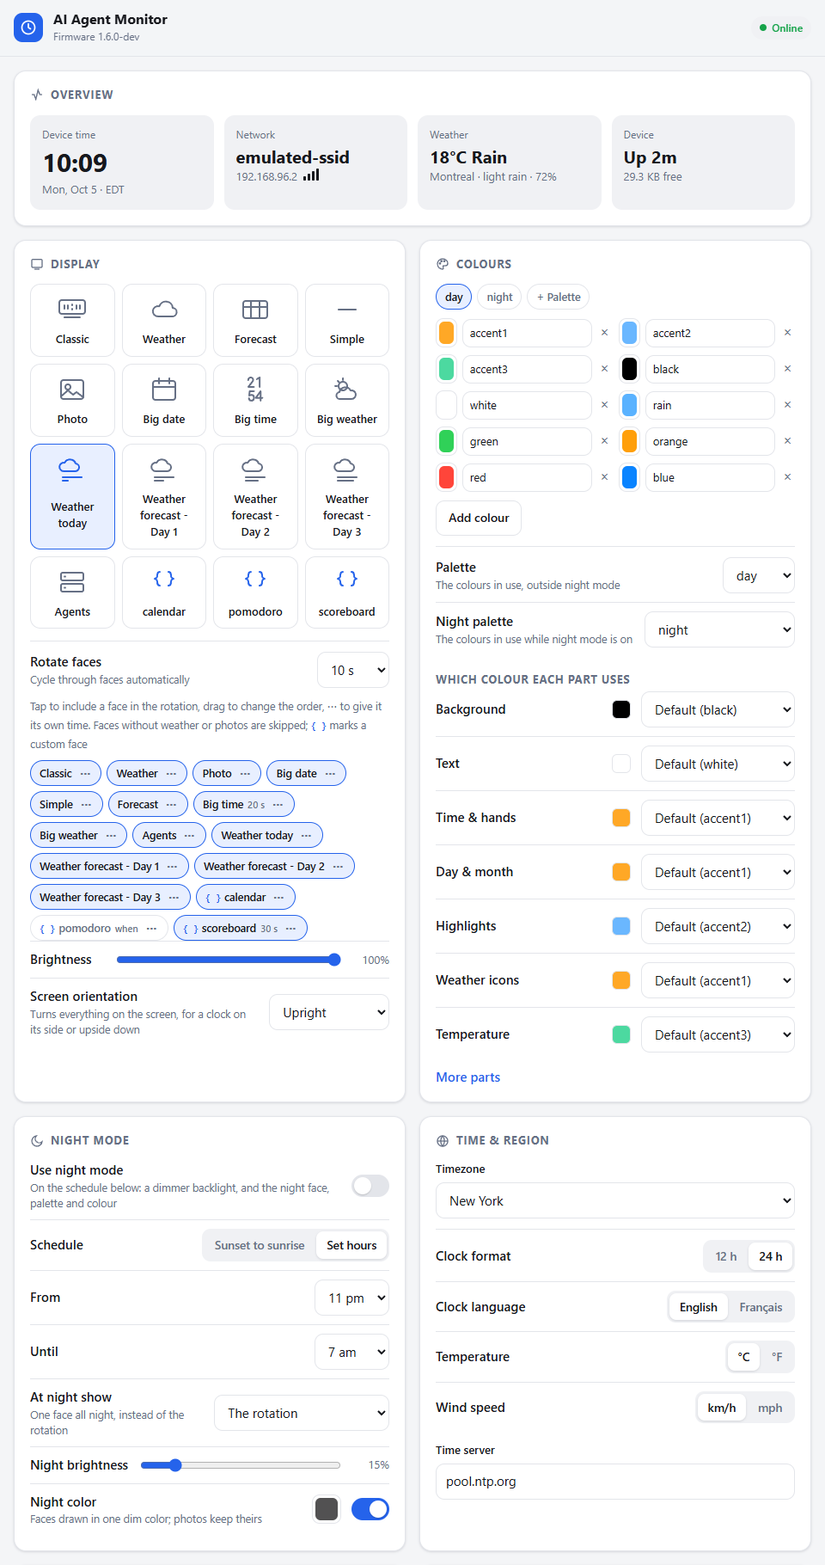
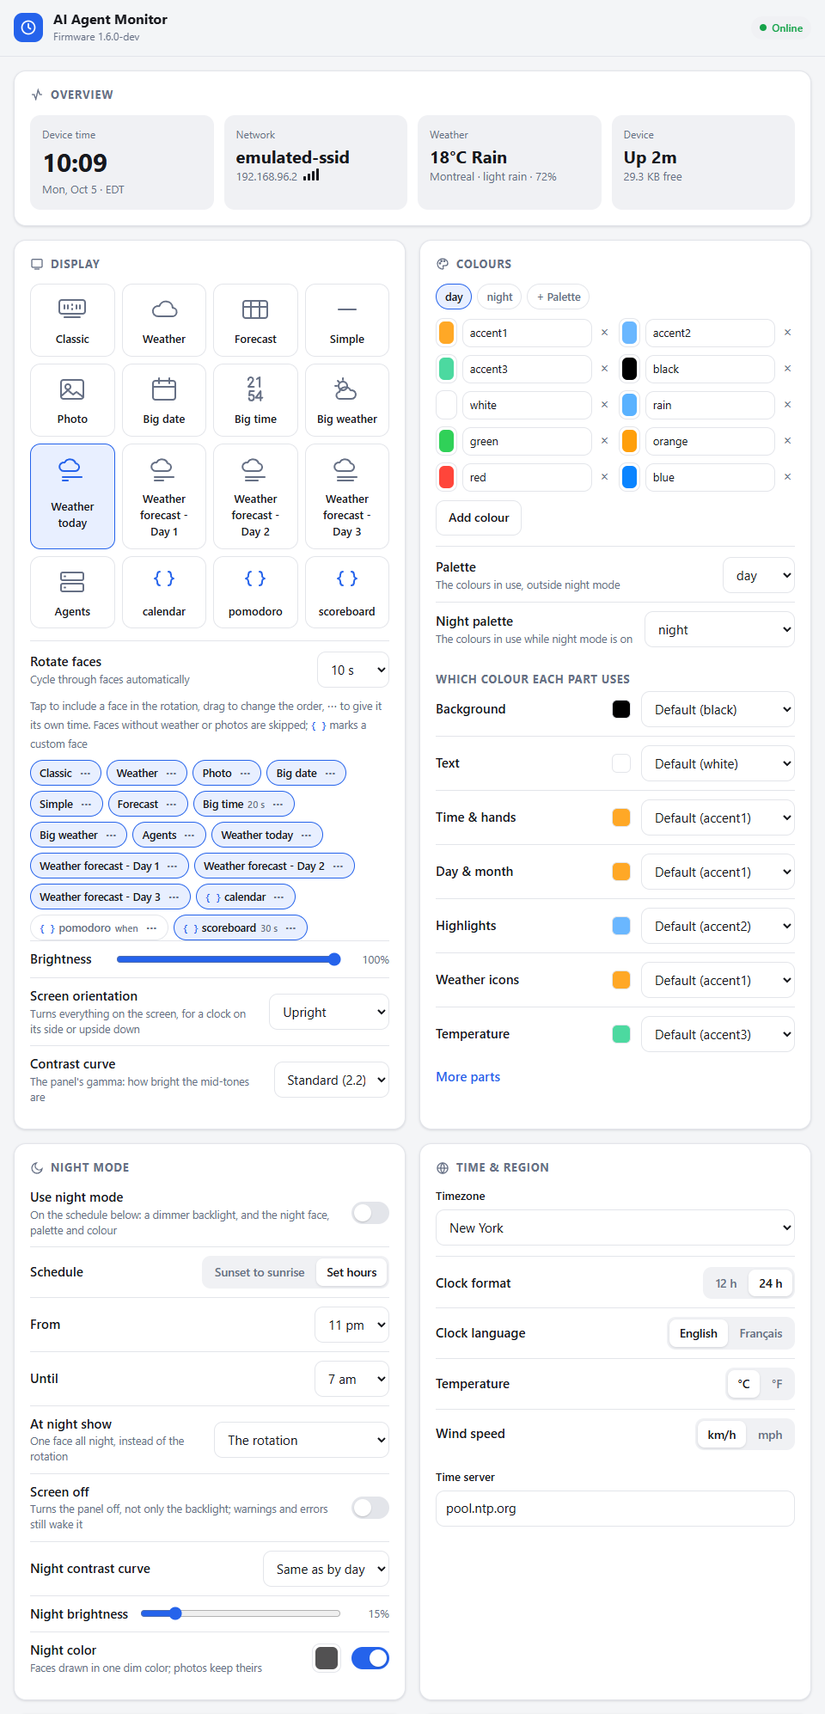
feat(display): colour inversion, contrast curves and screen off at night
- A custom face's `invert` inverts the panel's colours (INVON/INVOFF) with no
  redraw, for flashing faces.
- Gamma curve (2.2, 1.8, 2.5, 1.0) by day and at night (`gamma`, `nightgamma`),
  set with the controller's GAMSET.
- "Screen off" at night (`nightoff`) puts the panel to sleep; warnings and
  errors wake it.
- The emulator models all three; settings page, specs, skill, schema, README,
  screenshots and changelog updated.

diff --git a/web/index.html b/web/index.html
@@ -192,6 +192,9 @@ a{color:var(--accent)}
     <div class="row"><span class="lbl">Screen orientation<span class="hint">Turns everything on the screen, for a clock on its side or upside down</span></span>
       <select class="sm" id="orientation" data-key="orientation"><option value="0">Upright</option><option value="90">90° clockwise</option>
         <option value="180">Upside down</option><option value="270">90° counter-clockwise</option></select></div>
+    <div class="row"><span class="lbl">Contrast curve<span class="hint">The panel's gamma: how bright the mid-tones are</span></span>
+      <select class="sm" id="gamma" data-key="gamma"><option value="2.2">Standard (2.2)</option><option value="1.8">Lighter (1.8)</option>
+        <option value="2.5">Deeper (2.5)</option><option value="1.0">Flat (1.0)</option></select></div>
   </section>
 
   <section class="card settings">
@@ -221,6 +224,11 @@ a{color:var(--accent)}
     <div class="row hoursRow"><span class="lbl">Until</span><select class="sm hours" id="stoptime" data-key="stoptime"></select></div>
     <div class="row"><span class="lbl">At night show<span class="hint">One face all night, instead of the rotation</span></span>
       <select class="sm" id="nightface" data-key="nightface"></select></div>
+    <div class="row"><label for="nightoff">Screen off<span class="hint">Turns the panel off, not only the backlight; warnings and errors still wake it</span></label>
+      <label class="switch"><input type="checkbox" id="nightoff" data-key="nightoff"><span></span></label></div>
+    <div class="row"><span class="lbl">Night contrast curve</span>
+      <select class="sm" id="nightgamma" data-key="nightgamma"><option value="">Same as by day</option><option value="2.2">Standard (2.2)</option><option value="1.8">Lighter (1.8)</option>
+        <option value="2.5">Deeper (2.5)</option><option value="1.0">Flat (1.0)</option></select></div>
     <div class="row"><span class="lbl">Night brightness</span>
       <div class="range"><input type="range" min="0" max="100" id="nightbrightness" data-key="nightbrightness"><output></output></div></div>
     <div class="row"><label for="nighttint">Night color<span class="hint">Faces drawn in one dim color; photos keep theirs</span></label>
@@ -581,9 +589,9 @@ function delPalette(){if(palTab=='day'||!confirm('Delete the palette '+palTab+'?
 
 function fillConfig(c){
   cfg=c;pals=c.palettes||{day:{}};roles=c.roles||{};renderThemes();renderColors();
-  for(const k of ['themeInterval','brightness','orientation','nightbrightness','starttime','stoptime','ntp','city','photointerval']){const el=$(k);if(el&&c[k]!==undefined){el.value=c[k];el.show&&el.show()}}
+  for(const k of ['themeInterval','brightness','orientation','gamma','nightgamma','nightbrightness','starttime','stoptime','ntp','city','photointerval']){const el=$(k);if(el&&c[k]!==undefined){el.value=c[k];el.show&&el.show()}}
   if(![...$('themeInterval').options].some(o=>o.value==String(c.themeInterval))){const o=new Option(c.themeInterval+' s',c.themeInterval);$('themeInterval').add(o);$('themeInterval').value=c.themeInterval}
-  $('nightmode').checked=!!c.nightmode;$('nighttint').checked=c.nighttint!==false;$('photoclock').checked=c.photoclock!==false;
+  $('nightmode').checked=!!c.nightmode;$('nightoff').checked=!!c.nightoff;$('nighttint').checked=c.nighttint!==false;$('photoclock').checked=c.photoclock!==false;
   ['facesapi','hacompat','mqtt'].forEach(k=>$(k).checked=!!c[k]);
   ['mqtthost','mqttuser','mqttbase'].forEach(k=>$(k).value=c[k]||'');$('mqttport').value=c.mqttport||1883;
   $('nightcolor').value=hex565(c.nightcolor||0);

diff --git a/src/main.cpp b/src/main.cpp
@@ -234,6 +234,8 @@ bool isNight(const struct tm& t) {
 }
 
 // ---------------------------- Display ---------------------------------------
+void setGamma(int index);
+
 void displayBegin() {
   displayReady = true;
   pinMode(PIN_BACKLIGHT, OUTPUT);
@@ -243,8 +245,32 @@ void displayBegin() {
   // The controller turns the picture (MADCTL): stock boots rotation 0, offset (0,0);
   // TFT_eSPI adds the 80-row offset a 240x240 glass on 240x320 RAM needs at 180 and 270.
   clockDisplay().setRotation(cfg.orientation);
+  setGamma(cfg.gamma);
   clockDisplay().fillScreen(TFT_BLACK);
   setBacklight(cfg.brightness);
+}
+
+// The panel's gamma curve (GAMSET: one of four built-in curves).
+void setGamma(int index) {
+  static int now = -1;
+  if (!displayReady || index == now) return;
+  now = index;
+  clockDisplay().writecommand(0x26);
+  clockDisplay().writedata(1 << index);
+}
+
+// The panel itself off (DISPOFF, then sleep), not only the backlight; on again it
+// wakes (SLPOUT, DISPON) and the face is redrawn.
+bool panelOff = false;
+void setPanelOn(bool on) {
+  if (!displayReady || on == !panelOff) return;
+  panelOff = !on;
+  TFT_eSPI& d = clockDisplay();
+  if (!on) { d.writecommand(0x28); d.writecommand(0x10); return; }
+  d.writecommand(0x11);
+  delay(10);   // after SLPOUT, before the next command
+  d.writecommand(0x29);
+  faceInvalidate();
 }
 
 void centerText(const String& s, int y, uint8_t font, uint16_t color) {
@@ -512,6 +538,8 @@ String configJson() {
   doc["theme"] = cfg.theme; doc["celsius"] = cfg.celsius; doc["hour12"] = cfg.hour12; doc["lang"] = cfg.lang;
   doc["mile"] = cfg.mile;   doc["city"] = cfg.city;       doc["brightness"] = cfg.brightness;
   doc["orientation"] = cfg.orientation * 90;
+  doc["gamma"] = Config::GAMMAS[cfg.gamma]; doc["nightgamma"] = cfg.nightGamma < 0 ? "" : Config::GAMMAS[cfg.nightGamma];
+  doc["nightoff"] = cfg.nightOff;
   doc["location"] = cfg.geoFor == cfg.city ? cfg.geoName : "";
   doc["nightmode"] = cfg.nightMode; doc["starttime"] = cfg.startHour; doc["stoptime"] = cfg.stopHour;
   doc["nightbrightness"] = cfg.nightBrightness; doc["nightface"] = cfg.nightFace; doc["ntp"] = cfg.ntp;
@@ -632,6 +660,12 @@ String applySetting(const String& key, const String& val) {
   }
   else if (key == "themeInterval") cfg.themeInterval = constrain(val.toInt(), 0, 3600);
   else if (key == "brightness") { cfg.brightness = constrain(val.toInt(), 0, 100); setBacklight(cfg.brightness); }
+  else if (key == "gamma" || key == "nightgamma") {   // a curve: 2.2, 1.8, 2.5 or 1.0; "" at night: the day's
+    int g = Config::gammaIndex(val);
+    if (g < 0 && !(key == "nightgamma" && val.isEmpty())) return F("Gamma: 2.2, 1.8, 2.5 or 1.0");
+    (key == "gamma" ? cfg.gamma : cfg.nightGamma) = g;
+  }
+  else if (key == "nightoff")   cfg.nightOff = (val == "1" || val == "true");
   else if (key == "orientation") {   // degrees, clockwise
     int deg = val.toInt();
     if (deg % 90) return F("Orientation: 0, 90, 180 or 270");
@@ -1388,7 +1422,10 @@ void loop() {
       brightnessDirty = false;
       lastBrightMin = t.tm_min;
       nightNow = isNight(t);
-      setBacklight(backlightOff ? 0 : boosted ? 100 : nightNow ? cfg.nightBrightness : cfg.brightness);
+      bool off = nightNow && cfg.nightOff && !boosted;   // an urgent message wakes the panel
+      setPanelOn(!off);
+      setGamma(nightNow && cfg.nightGamma >= 0 ? cfg.nightGamma : cfg.gamma);
+      setBacklight(backlightOff || off ? 0 : boosted ? 100 : nightNow ? cfg.nightBrightness : cfg.brightness);
       // Night colours too; an urgent message keeps its own.
       uint16_t tint = nightNow && !boosted && cfg.nightTint ? std::max<uint16_t>(cfg.nightColor, 1) : 0;
       if (tint != nightPanel().tint) { nightPanel().tint = tint; faceInvalidate(); }
@@ -1402,7 +1439,7 @@ void loop() {
       shown = entryFace(cfg.nightFace);
       if (shown == FACE_CUSTOM) custom = cfg.nightFace.c_str();
     }
-    if (!revealUntil && (int32_t)(millis() - faceHoldUntil) >= 0) {
+    if (!revealUntil && !panelOff && (int32_t)(millis() - faceHoldUntil) >= 0) {
       uint32_t start = micros();
       faceDraw(shown, t, timeValid, custom);
       uint32_t ms = (micros() - start) / 1000;

diff --git a/emulator/panel.cpp b/emulator/panel.cpp
@@ -4,7 +4,9 @@
 // Panel: the bytes TFT_eSPI sends are decoded as the controller would: CASET/RASET set
 // the window, RAMWR streams RGB565 pixels into it (big-endian), INVON/INVOFF invert,
 // MADCTL turns the address mapping (MV exchanges rows and columns, then MX and MY mirror
-// them in the 240x320 RAM; the glass shows its first 240 rows).
+// them in the 240x320 RAM; the glass shows its first 240 rows). Inversion, the gamma
+// curve (GAMSET) and DISPOFF/SLPIN act on what the glass shows, as on the panel: ram[]
+// keeps the pixels, emuPanel[] is ram[] through them.
 // The panel is an IPS that needs INVON for true colours, as on the clock, so pixels
 // written while inversion is off show inverted. emuPanel[] is what the glass shows.
 //
@@ -37,23 +39,37 @@ constexpr double IDLE_US = 5000;
 uint8_t cmd = 0;
 int argIndex = 0;
 uint8_t args[4];
-bool dataMode = true, inverted = false, pendingHigh = false;
-uint8_t highByte = 0, madctl = 0;
+bool dataMode = true, inverted = false, pendingHigh = false, shown = true;
+uint8_t highByte = 0, madctl = 0, gammaCurve = 1;
 int xs = 0, xe = PW - 1, ys = 0, ye = PH - 1, cx = 0, cy = 0;
+uint16_t ram[PW * PH];
+
+// A pixel as the glass shows it: inverted unless INVON (the IPS panel's true colours
+// need it), through the gamma curve (the panel's own is 2.2), black while off.
+uint16_t glass(uint16_t c) {
+  if (!shown) return 0;
+  if (!inverted) c = ~c;
+  if (gammaCurve == 1) return c;
+  float g = (gammaCurve == 2 ? 1.8f : gammaCurve == 4 ? 2.5f : 1.0f) / 2.2f;
+  auto ch = [&](int sh, int m) { return (int)lroundf(powf(((c >> sh) & m) / float(m), g) * m) << sh; };
+  return ch(11, 31) | ch(5, 63) | ch(0, 31);
+}
+void reshow() { for (int i = 0; i < PW * PH; ++i) emuPanel[i] = glass(ram[i]); }
 
 void put(uint16_t c) {
   int col = cx, row = cy;
   if (madctl & 0x20) std::swap(col, row);   // MV
   if (madctl & 0x40) col = PW - 1 - col;     // MX
   if (madctl & 0x80) row = 320 - 1 - row;    // MY, over the controller's 320 rows
-  if (col < PW && row < PH && col >= 0 && row >= 0) emuPanel[row * PW + col] = inverted ? c : uint16_t(~c);
+  if (col < PW && row < PH && col >= 0 && row >= 0) { ram[row * PW + col] = c; emuPanel[row * PW + col] = glass(c); }
   if (++cx > xe) { cx = xs; if (++cy > ye) cy = ys; }
 }
 
 void command(uint8_t c) {
   cmd = c; argIndex = 0; pendingHigh = false;
-  if (c == 0x20) inverted = false;        // INVOFF
-  else if (c == 0x21) inverted = true;    // INVON
+  if (c == 0x20 || c == 0x21) { if (inverted != (c == 0x21)) { inverted = c == 0x21; reshow(); } }   // INVOFF, INVON
+  else if (c == 0x28 || c == 0x10) { shown = false; reshow(); }   // DISPOFF, SLPIN
+  else if (c == 0x29) { shown = true; reshow(); }                  // DISPON
   else if (c == 0x2C) { cx = xs; cy = ys; }   // RAMWR: from the window's start
 }
 
@@ -65,6 +81,7 @@ void data(uint8_t b) {
     return;
   }
   if (cmd == 0x36) { madctl = b; return; }   // MADCTL
+  if (cmd == 0x26) { if (b != gammaCurve && (b == 1 || b == 2 || b == 4 || b == 8)) { gammaCurve = b; reshow(); } return; }   // GAMSET
   if (cmd != 0x2A && cmd != 0x2B) return;
   if (argIndex < 4) args[argIndex++] = b;
   if (argIndex == 4) {

diff --git a/src/config.h b/src/config.h
@@ -35,6 +35,9 @@ struct Config {
   int    faceMask    = (1 << FACE_COUNT) - 1;   // bit n set = face n takes part in rotation
   int    brightness  = 60;           // 0..100
   int    orientation = 0;            // the screen turned by 0-3 quarter turns (clockwise), in hardware
+  int    gamma       = 0;            // the panel's gamma curve: 0 2.2, 1 1.8, 2 2.5, 3 1.0 (GAMSET)
+  int    nightGamma  = -1;           // at night; -1 the day's
+  bool   nightOff    = false;        // during night mode: the panel off (urgent messages wake it)
   bool   nightMode   = true;
   bool   nightAuto   = false;          // dim from sunset to sunrise instead of fixed hours
   int    nightBrightness = 15;       // 0..100
@@ -67,6 +70,13 @@ struct Config {
   String mqttHost, mqttUser, mqttPass, mqttBase;   // mqttBase "" = the hostname
   int    mqttPort = 1883;
   String apiKey;                     // for scripts calling the faces API; never exported
+
+  // The panel's four gamma curves, as the settings name them; -1 for anything else.
+  static constexpr const char* GAMMAS[4] = {"2.2", "1.8", "2.5", "1.0"};
+  static int gammaIndex(const String& s) {
+    for (int i = 0; i < 4; ++i) if (s == GAMMAS[i]) return i;
+    return -1;
+  }
 
   // The older "faceorder" setting: built-in face ids as base-36 characters (0-9, a-d),
   // turned into face entries ("#3,#7,...").
@@ -117,6 +127,9 @@ struct Config {
     faceMask    = doc["faces"]       | faceMask;
     brightness  = doc["brightness"]  | brightness;
     orientation = ((doc["orientation"] | 0) / 90 % 4 + 4) % 4;
+    gamma       = constrain(gammaIndex(doc["gamma"] | "2.2"), 0, 3);
+    nightGamma  = gammaIndex(doc["nightgamma"] | "");
+    nightOff    = doc["nightoff"]    | nightOff;
     nightMode   = doc["nightmode"]   | nightMode;
     nightAuto   = doc["nightauto"]   | nightAuto;
     nightBrightness = doc["nightbrightness"] | nightBrightness;
@@ -182,6 +195,7 @@ struct Config {
     doc["theme"] = theme;         doc["themeInterval"] = themeInterval;
     doc["faces"] = faceMask;     doc["facesv"] = 4;
     doc["brightness"] = brightness; doc["orientation"] = orientation * 90;
+    doc["gamma"] = GAMMAS[gamma]; doc["nightgamma"] = nightGamma < 0 ? "" : GAMMAS[nightGamma]; doc["nightoff"] = nightOff;
     doc["nightmode"] = nightMode; doc["nightauto"] = nightAuto; doc["nightbrightness"] = nightBrightness; doc["nightface"] = nightFace;
     doc["nighttint"] = nightTint; doc["nightcolor"] = nightColor;
     doc["starttime"] = startHour; doc["stoptime"] = stopHour;

diff --git a/src/faces.cpp b/src/faces.cpp
@@ -157,6 +157,14 @@ bool clockColor(const char* name, uint16_t* out) {
   return swatch(activePal.c_str(), name, out);
 }
 
+// A custom face's "invert": the panel flips every colour itself, with no redraw.
+bool panelInverted = false;
+void invertPanel(bool on) {
+  if (on == panelInverted) return;
+  panelInverted = on;
+  D().invertDisplay(!on);   // the IPS panel shows true colours with INVON
+}
+
 int drawnFace = -1;      // -2 = "setting the time" screen
 bool dirty = true;
 int photosCached = -1;   // -1 = recount
@@ -1758,6 +1766,7 @@ void renderItems(const struct tm& t, bool force) {
   static String drawnPalette;
   const char* pal = customDoc["palette"];
   paletteName = pal ? evalStr(resolve(pal, t)) : String();
+  invertPanel(!customDoc["invert"].isNull() && visibleField(customDoc["invert"], t));
   // A name the face's own palettes lack may be one of the clock's.
   facePal = paletteName.length() && customDoc["palettes"][paletteName].isNull() && !palDoc[paletteName].isNull() ? paletteName : String();
   bool full = force || paletteName != drawnPalette;
@@ -2264,7 +2273,7 @@ String weatherIconName(int wmo, bool day) {
 }
 
 // ---- Public -----------------------------------------------------------------------
-void faceInvalidate() { dirty = true; }
+void faceInvalidate() { dirty = true; invertPanel(false); }
 void facePhotosChanged() { photosCached = -1; dirty = true; }
 
 int photoCount() {
@@ -2314,6 +2323,7 @@ void faceDraw(int face, const struct tm& t, bool timeValid, const char* customFa
   }
   bool force = dirty || face != drawnFace;
   if (face == FACE_CUSTOM && !cfg.facesApi) face = FACE_CLASSIC;   // integration turned off
+  if (face != FACE_CUSTOM && face != FACE_MESSAGE) invertPanel(false);
   if (force && face != FACE_PHOTO && face != FACE_CUSTOM && face != FACE_MESSAGE) D().fillScreen(BG);
   switch (face) {
     case FACE_WEATHER:  weather(t, force);  break;

diff --git a/tests/face_preview/mock/TFT_eSPI.h b/tests/face_preview/mock/TFT_eSPI.h
@@ -23,6 +23,7 @@ class TFT_eSPI {
 
   void init() {}
   void setRotation(uint8_t) {}   // the panel only ever runs at rotation 0
+  void invertDisplay(bool) {}
   void fillScreen(uint32_t c) { fillRect(0, 0, W, H, c); }
   virtual ~TFT_eSPI() = default;
   // Virtual as in TFT_eSPI, so main.cpp's NightPanel can tint what is drawn.

diff --git a/CHANGELOG.md b/CHANGELOG.md
@@ -22,6 +22,13 @@ versioning. `/version` on the device reports the version it was built as; a
 
 ### Added
 
+- **Emulator: Scenarios panel.** The screen page mocks the time (any date, stopped or up
+  to 3600× real pace), the weather (a form for the current conditions and four forecast
+  days, plus presets from sunny to blizzard) and the values agents push (variables,
+  messages, any MQTT topic, handled by the firmware as if from the broker), and loads
+  whole scenarios or any example face with its sample values. New emulator endpoints:
+  `GET /time` and `local`/`add`/`speed` on `POST /time`, `GET /weather`, `POST /mqtt`,
+  `GET /vars`, `POST /facesapi`, `GET /presets`, `GET /examples/…`.
 - **Palettes and roles.** Named colours in palettes (day, night, and up to 8), the
   palette in use by day and at night, and 18 roles, the parts of the faces (time,
   date, highlights, weather icons, temperatures, rain, sun times, message colours,
@@ -39,11 +46,15 @@ versioning. `/version` on the device reports the version it was built as; a
 - **5 example faces**: big-time, big-date and big-weather (the Big tiles as JSON, in
   the clock's colours) and scoreboard, in the big font; alarm, which flashes between
   two colour sets every second while an alarm is set.
+- **The display's own features:** a custom face's `invert` (the panel inverts every
+  colour, with no redraw, to flash it); a contrast curve (gamma 2.2, 1.8, 2.5 or 1.0)
+  by day and at night; and "Screen off" at night, which turns the panel off, not only
+  its backlight (warnings and errors still wake it). The emulator models all three.
 - The settings page says "Use night mode" (was "Dim at night"): the switch turns on all
   of night mode, not only the dimmer backlight.
 - **Screen orientation**: turn the picture 90, 180 or 270 degrees (Display card), done
   by the display controller, for a clock on its side or upside down.
-- Settings: `orientation`, `order`, `customoff`, `turns`, `customface`, `nightface` (any face),
+- Settings: `orientation`, `gamma`, `nightgamma`, `nightoff`, `order`, `customoff`, `turns`, `customface`, `nightface` (any face),
   `palettes`, `palette`, `nightpalette`, `roles` (`docs/specifications/settings.md`).
 
 ## 1.5.0 - 2026-10-29

diff --git a/docs/specifications/settings.md b/docs/specifications/settings.md
@@ -31,11 +31,19 @@ custom face, in rotation order), `customoff`, `turns`, `nightface` (an entry, or
 and `customs`: one object per custom face, `{"name": "calendar", "when": true,
 "duration": 20}` (`when`: the face has a `when` rule; `duration`: its own, or 0).
 
-## Screen orientation
+## The screen
+
+The display controller (ST7789) does these itself, so they cost no drawing time.
 
 | Key | Value | Meaning |
 |---|---|---|
-| `orientation` | `0`, `90`, `180` or `270` | Turns everything on the screen clockwise by that many degrees, for a clock standing on its side or upside down. The display controller does it (its MADCTL register), so drawing is as fast as upright. Faces are square, so they need no change |
+| `orientation` | `0`, `90`, `180` or `270` | Turns everything on the screen clockwise by that many degrees, for a clock standing on its side or upside down (MADCTL). Faces are square, so they need no change |
+| `gamma` | `2.2`, `1.8`, `2.5` or `1.0` | The panel's contrast curve (GAMSET): `2.2` standard, `1.8` lighter mid-tones, `2.5` deeper, `1.0` flat |
+| `nightgamma` | as `gamma`, or empty | The curve during night mode; empty keeps the day's |
+| `nightoff` | `1` or `0` | During night mode the panel is turned off (DISPOFF and sleep), not only its backlight. A warning or error message wakes it while it is on screen |
+
+A custom face's `invert` (see the integrations API) flips the panel's colours the same
+way, for flashing.
 
 ## Palettes: named colours
 

diff --git a/docs/specifications/integrations-api.md b/docs/specifications/integrations-api.md
@@ -157,6 +157,7 @@ or, where noted, a [gradient](#gradients).
 | `maps` | Lookup tables for the `:<map>` modifier: `{"<map>": {"<value>": "<result>", "*": "<otherwise>"}}` |
 | `when` | The face takes its turn in the rotation only while this is true (`"{build}==fail"`, `"{day0.rain}>60"`). Absent: always |
 | `duration` | Seconds on screen per turn (1–3600), instead of the rotation interval |
+| `invert` | A condition: while true, the panel shows every colour inverted. The display does it, with no redraw, so `"{time.sec}%2"` flashes the face at no cost |
 | `show` | `true`: show the face when it is saved |
 
 **Items**
@@ -298,7 +299,11 @@ once, for day and night, or for a state.
 A palette entry may use placeholders (`"accent": "{theme.color1}"`) but not another
 `@name`.
 
-A palette chosen by the time **flashes** the whole face, for an alarm:
+`"invert": "{time.sec}%2"` **flashes** a face at no cost: the display inverts every
+colour itself, with nothing redrawn. Inverted colours are the opposites (red turns
+cyan); for two colours of your choice, use palettes instead.
+
+A palette chosen by the time also flashes the whole face, for an alarm:
 `"palette": "{time.sec}%2==0?on:off"` swaps two colour sets every second (each swap
 redraws the face). Keep such a face light (font 2 and 4 text, a path or two) so the
 swap is quick, and give it a `when` so it shows only while there is something wrong

diff --git a/plugins/ai-agent-monitor/skills/ai-agent-monitor/reference/face-format.md b/plugins/ai-agent-monitor/skills/ai-agent-monitor/reference/face-format.md
@@ -75,6 +75,7 @@ or, where noted, a [gradient](#gradients).
 | `maps` | Lookup tables for the `:<map>` modifier: `{"<map>": {"<value>": "<result>", "*": "<otherwise>"}}` |
 | `when` | The face takes its turn in the rotation only while this is true (`"{build}==fail"`, `"{day0.rain}>60"`). Absent: always |
 | `duration` | Seconds on screen per turn (1–3600), instead of the rotation interval |
+| `invert` | A condition: while true, the panel shows every colour inverted. The display does it, with no redraw, so `"{time.sec}%2"` flashes the face at no cost |
 | `show` | `true`: show the face when it is saved |
 
 **Items**
@@ -216,7 +217,11 @@ once, for day and night, or for a state.
 A palette entry may use placeholders (`"accent": "{theme.color1}"`) but not another
 `@name`.
 
-A palette chosen by the time **flashes** the whole face, for an alarm:
+`"invert": "{time.sec}%2"` **flashes** a face at no cost: the display inverts every
+colour itself, with nothing redrawn. Inverted colours are the opposites (red turns
+cyan); for two colours of your choice, use palettes instead.
+
+A palette chosen by the time also flashes the whole face, for an alarm:
 `"palette": "{time.sec}%2==0?on:off"` swaps two colour sets every second (each swap
 redraws the face). Keep such a face light (font 2 and 4 text, a path or two) so the
 swap is quick, and give it a `when` so it shows only while there is something wrong

diff --git a/README.md b/README.md
@@ -44,8 +44,13 @@ from a reverse-engineering of the stock firmware; no vendor code is reused.
   [Open-Meteo](https://open-meteo.com/), drawn with
   [Weather Icons](https://erikflowers.github.io/weather-icons/) (day and night).
 - **Night mode:** dim the screen, draw everything in one dark color (dark gray by
-  default) so it lights the room less, and show a single face all night (Big time, for
-  example).
+  default) or in a night palette so it lights the room less, show a single face all
+  night (Big time, or one of your own), or turn the panel off altogether (warnings and
+  errors still wake it).
+- **The screen itself:** turned 90°, 180° or 270° for a clock on its side or upside
+  down, a choice of contrast curve (by day and at night), and custom faces that flash
+  by inverting the panel's colours. The display does all three, so they cost no
+  drawing time.
 - **English or French** on the faces (days, months, weather, labels).
 - **Correct local time all year:** time zones include daylight-saving rules.
 - **Your photos:** the settings page crops and resizes them to 240×240 in your browser

diff --git a/plugins/ai-agent-monitor/skills/ai-agent-monitor/SKILL.md b/plugins/ai-agent-monitor/skills/ai-agent-monitor/SKILL.md
@@ -77,9 +77,11 @@ saved on the clock. The model:
   Every item takes `show`, a condition.
 - **Maps** turn a value into a colour or a label (`{build:state}`); **palettes** name
   colours (`"@fg"`) and can switch as a whole (`"palette": "{sun.up}?day:night"`).
-- **Flashing** for an alarm: `"palette": "{time.sec}%2==0?on:off"` with two palettes
-  swaps the whole face's colours every second; add `"when": "{alarm}"` so it shows
-  only while the alarm variable is set.
+- **Flashing** for an alarm: `"invert": "{time.sec}%2"` makes the display invert every
+  colour each other second, with no redraw (red turns cyan). For two colours of your
+  choice, `"palette": "{time.sec}%2==0?on:off"` with two palettes swaps them (the face
+  is redrawn each time). Add `"when": "{alarm}"` so it shows only while the alarm
+  variable is set.
 - **The clock's colours**: `@time`, `@bg`, `@text`, `@muted`, `@panel`, `@warn`,
   `@error`, `@ok` … are the colours the user chose for the built-in faces (day and
   night). Use them unless the face needs colours of its own: it then matches the
